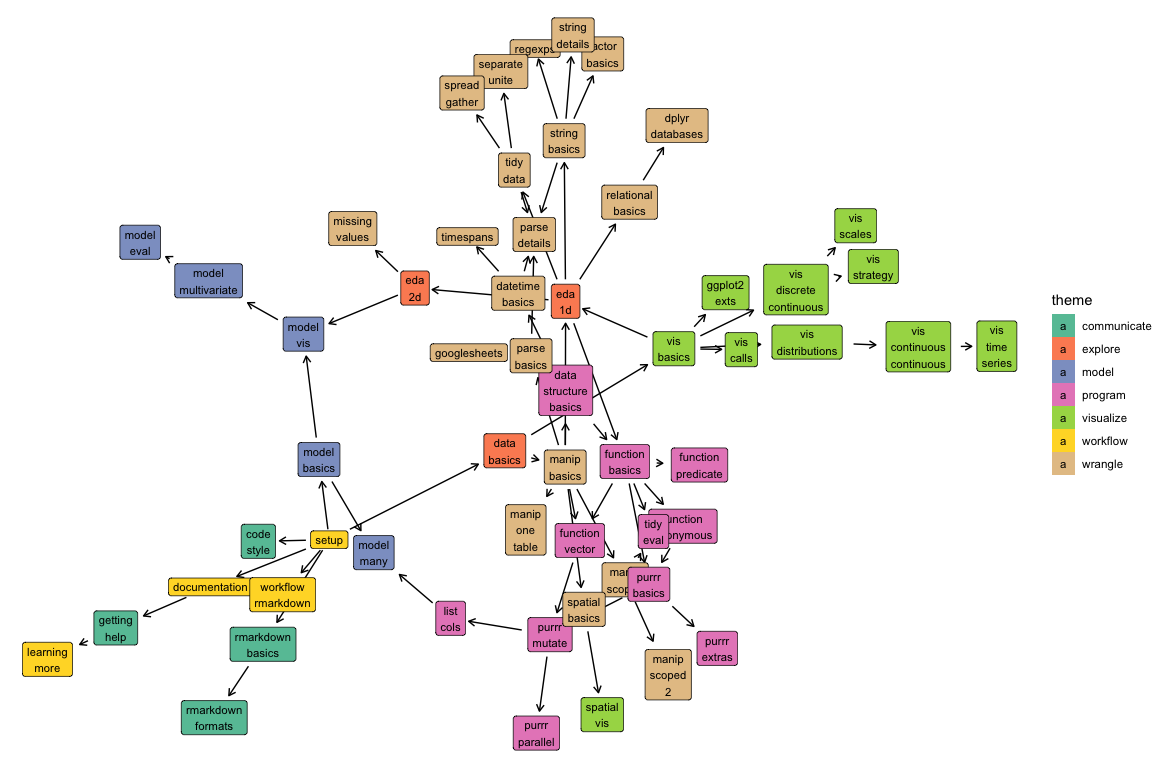
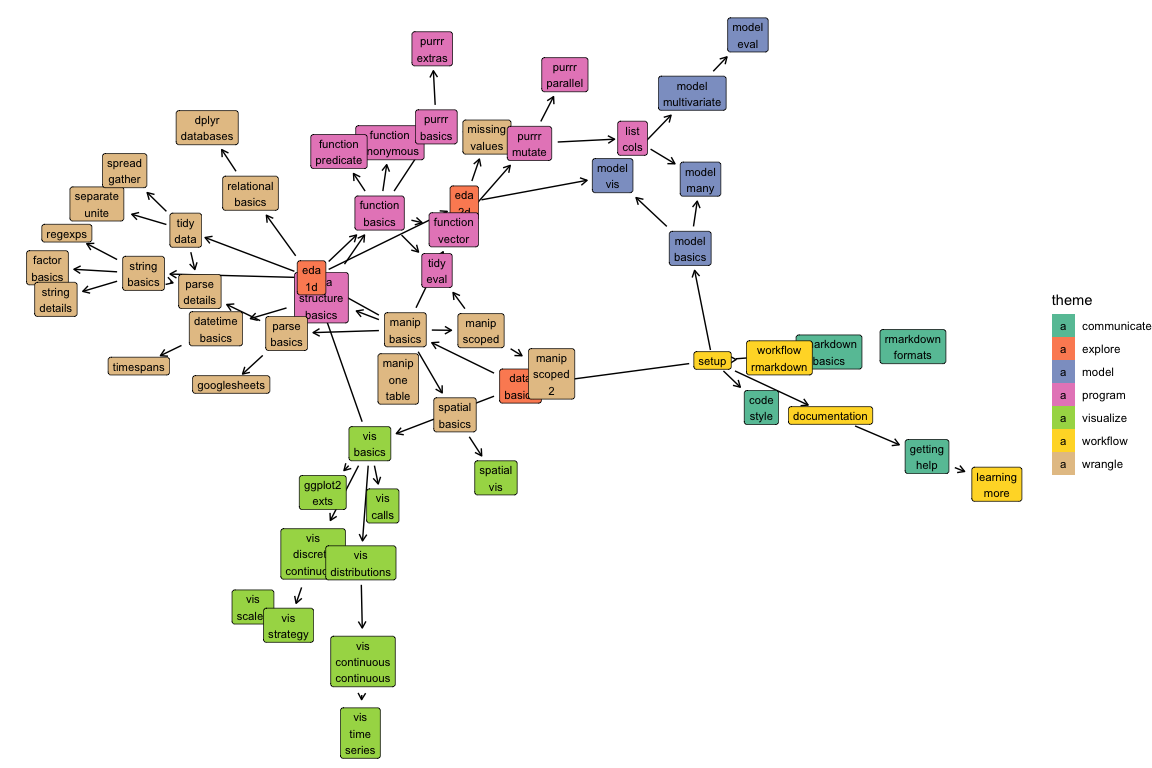
Update for week 5

diff --git a/docs/purrr-mutate.md b/docs/purrr-mutate.md
@@ -1,122 +1,25 @@
 ---
-title: purrr inside mutate
+title: purrr in mutate
 ---
 
 <!-- Generated automatically from purrr-mutate.yml. Do not edit by hand -->
 
-# purrr inside mutate <small class='program'>[program]</small>
-<small>(Builds on: [purrr basics](purrr-basics.md), [Vector functions](function-vector.md))</small>  
+# purrr in mutate <small class='program'>[program]</small>
+<small>(Builds on: [Vector functions](function-vector.md), [purrr basics](purrr-basics.md))</small>  
 <small>(Leads to: [List-columns](list-cols.md), [purrr map with multiple inputs](purrr-parallel.md))</small>
 
+Until now, you've been using vector functions inside `mutate()` to create new
+columns. In *Vector functions*, you learned how to convert some scalar functions
+into vector functions. Sometimes, however, you'll want to use a scalar function 
+to create a new column, and you won't be able to convert that scalar function 
+into a vector function. 
 
-In the vector functions unit, you learned to add new variables to tibbles by giving `mutate()` a vector with an element for each row in the tibble. You saw that you can do any of the following to create this vector:
+In this reading, you'll learn how to create new columns with a scalar function 
+by using a map function to apply that scalar function to each element of an 
+existing column.
 
--   Give `mutate()` a single value, which is then repeated for each row in the tibble.
--   Explicitly give `mutate()` a vector with an element for each row in the tibble.
--   Create a vector using a vector function like `+` or `case_when()`.
+## Readings
 
-In this reading, you'll learn about a fourth option: supplying `mutate()` with a vector created by a `map` function.
+  * [purrr inside mutate](https://dcl-prog.stanford.edu/purrr-mutate.html) [prog-11]
 
-Using `map` functions inside `mutate()`
----------------------------------------
-
-Here's a simple scalar function that turns feelings into emoticons:
-
-``` r
-emoticons_1 <- function(x) {
-  if (x == "happy") {
-    ":)"
-  } else if (x == "sad") {
-    ":("
-  } else {
-    "Feeling too complex for emoticons"
-  }
-}
-```
-
-Recall that scalar functions fail if you try to give them vectors of values:
-
-``` r
-feelings <- c("happy", "befuddled")
-emoticons_1(feelings)
-#> Warning in if (x == "happy") {: the condition has length > 1 and only the
-#> first element will be used
-#> [1] ":)"
-```
-
-As you already know, we can turn `emoticons()` into a vector function by rewriting it using `if_else()`, `case_when()`, or `recode()`. Another option, however, is to leave `emoticons()` as a scalar function and apply it to the elements of `feelings` one-by-one using a `map` function:
-
-``` r
-map_chr(feelings, emoticons_1)
-#> [1] ":)"                                "Feeling too complex for emoticons"
-```
-
-Here, we place each feeling in `feelings` on the conveyor belt. The worker picks each feeling up, finds the appropriate emoticon, and then places the emoticon on the output belt.
-
-If we want to use `emoticons()` to add a variable to a tibble, we can place this `map` call inside `mutate()`:
-
-``` r
-df <- 
-  tibble(
-    feeling = c("sad", "compunctious", "happy")
-  ) 
-
-df %>% 
-  mutate(emoticon = map_chr(feeling, emoticons_1))
-#> # A tibble: 3 x 2
-#>   feeling      emoticon                         
-#>   <chr>        <chr>                            
-#> 1 sad          :(                               
-#> 2 compunctious Feeling too complex for emoticons
-#> 3 happy        :)
-```
-
-Remember that when you reference an existing column inside `mutate()`, you reference the entire vector of values. Therefore, the call to `map_chr()` works inside `mutate()` just as it does outside, applying `emoticons()` to each element of the `feeling` column and producing a vector with an emoticon for each feeling in the tibble.
-
-This pattern will work with any scalar function, but remember to think about which `map` suffix to use. If the output type of the scalar function doesn't match the `map` suffix, you'll get an error about coercion:
-
-``` r
-df %>% 
-  mutate(emoticon = map_int(feeling, emoticons_1))
-#> Error in mutate_impl(.data, dots): Evaluation error: Can't coerce element 1 from a character to a integer.
-```
-
-Additional arguments and anonymous values
------------------------------------------
-
-You can use the `map` functions inside `mutate()` as you would outside `mutate()`, and so you can still specify additional arguments by listing them after the function:
-
-``` r
-emoticons_2 <- function(x, default = "???") {
-  if (x == "happy") {
-    ":)"
-  } else if (x == "sad") {
-    ":("
-  } else {
-    default
-  }
-}
-
-df %>% 
-  mutate(emoticon = map_chr(feeling, emoticons_2, default = NA_character_))
-#> # A tibble: 3 x 2
-#>   feeling      emoticon
-#>   <chr>        <chr>   
-#> 1 sad          :(      
-#> 2 compunctious <NA>    
-#> 3 happy        :)
-```
-
-as well as create anonymous functions:
-
-``` r
-df %>% 
-  mutate(is_happy = map_chr(feeling, ~ str_c("I feel ", emoticons_2(.))))
-#> # A tibble: 3 x 2
-#>   feeling      is_happy  
-#>   <chr>        <chr>     
-#> 1 sad          I feel :( 
-#> 2 compunctious I feel ???
-#> 3 happy        I feel :)
-```
 

diff --git a/docs/purrr-parallel.md b/docs/purrr-parallel.md
@@ -5,7 +5,7 @@ title: purrr map with multiple inputs
 <!-- Generated automatically from purrr-parallel.yml. Do not edit by hand -->
 
 # purrr map with multiple inputs <small class='program'>[program]</small>
-<small>(Builds on: [purrr inside mutate](purrr-mutate.md))</small>
+<small>(Builds on: [purrr in mutate](purrr-mutate.md))</small>
 
 
 In the previous purrr units, you learned how to use the `map()` functions to iterate over a single vector and apply a function to each element. `purrr` also contains functions that can iterate over several vectors in parallel, supplying the first elements of each vector to a given function, then the second, then the third, etc.

diff --git a/docs/purrr-basics.md b/docs/purrr-basics.md
@@ -6,12 +6,12 @@ title: purrr basics
 
 # purrr basics <small class='program'>[program]</small>
 <small>(Builds on: [Function basics](function-basics.md), [Anonymous functions](function-anonymous.md))</small>  
-<small>(Leads to: [Other purrr functions](purrr-extras.md), [purrr inside mutate](purrr-mutate.md))</small>
+<small>(Leads to: [Other purrr functions](purrr-extras.md), [purrr in mutate](purrr-mutate.md))</small>
 
 [Description to follow.]
 
 ## Readings
 
-  * [purrr basics](https://dcl-prog.stanford.edu/purrr-basics.html) [prog-8]
+  * [Predicate functions](https://dcl-prog.stanford.edu/function-predicate.html) [prog-8]
 
 

diff --git a/docs/function-vector.md b/docs/function-vector.md
@@ -6,7 +6,7 @@ title: Vector functions
 
 # Vector functions <small class='program'>[program]</small>
 <small>(Builds on: [Manipulation basics](manip-basics.md), [Function basics](function-basics.md))</small>  
-<small>(Leads to: [purrr inside mutate](purrr-mutate.md))</small>
+<small>(Leads to: [purrr in mutate](purrr-mutate.md))</small>
 
 
 **Vector functions** take a vector as input and produce a vector of the same length as output. This is very helpful when working with vectors. For example, instead of taking the log of each element of the vector `x`, you can just call `log10()` once:

diff --git a/docs/list-cols.md b/docs/list-cols.md
@@ -5,7 +5,7 @@ title: List-columns
 <!-- Generated automatically from list-cols.yml. Do not edit by hand -->
 
 # List-columns <small class='program'>[program]</small>
-<small>(Builds on: [purrr inside mutate](purrr-mutate.md))</small>  
+<small>(Builds on: [purrr in mutate](purrr-mutate.md))</small>  
 <small>(Leads to: [Many models](model-many.md))</small>
 
 **List-columns** are a powerful way to extend data frames to contain any

diff --git a/docs/function-anonymous.md b/docs/function-anonymous.md
@@ -12,6 +12,6 @@ title: Anonymous functions
 
 ## Readings
 
-  * [Anonymous functions](https://dcl-prog.stanford.edu/function-anonymous.html) [prog-6]
+  * [Vector functions](https://dcl-prog.stanford.edu/function-vector.html) [prog-6]
 
 
